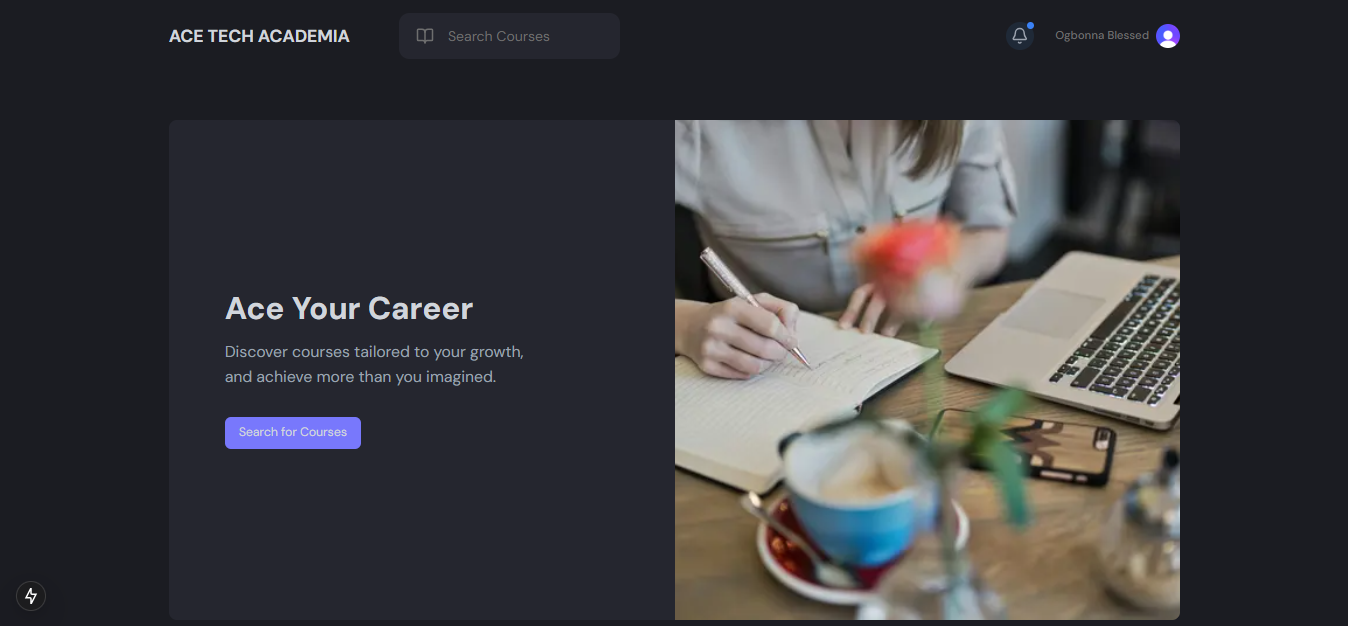
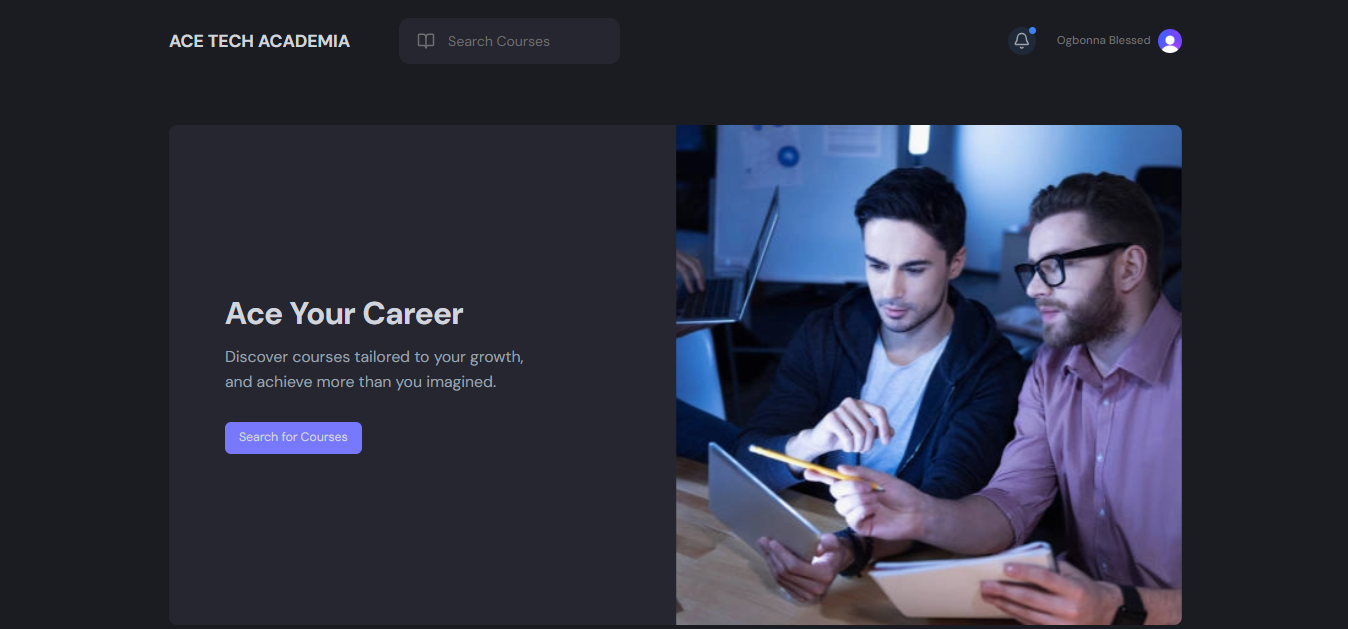
feat: add terra haven to the projects

diff --git a/src/components/Projects.tsx b/src/components/Projects.tsx
@@ -6,7 +6,7 @@ import { AnimatePresence, motion } from "framer-motion";
 import { useOutsideClick } from "@/hooks/use-outside-click";
 import { Minus } from "lucide-react";
 import { FaReact, FaDocker, FaAws, FaStripe, FaHtml5, FaCss3 } from 'react-icons/fa';
-import { SiRedux, SiTailwindcss, SiFramer, SiTypescript, SiZod, SiExpress, SiClerk, SiVercel, SiI3, SiNextdotjs, SiAmazondynamodb, SiShadcnui, SiReacthookform, SiGithubpages, SiJavascript, SiRender, SiFirebase, SiMongodb, SiNodedotjs } from 'react-icons/si';
+import { SiRedux, SiTailwindcss, SiFramer, SiTypescript, SiZod, SiExpress, SiClerk, SiVercel, SiI3, SiNextdotjs, SiAmazondynamodb, SiShadcnui, SiReacthookform, SiGithubpages, SiJavascript, SiRender, SiFirebase, SiMongodb, SiNodedotjs, SiPostgresql, SiPrisma, SiPostman, SiAwslambda } from 'react-icons/si';
 
 export function Projects() {
     const [active, setActive] = useState<(typeof cards)[number] | boolean | null>(null);
@@ -271,7 +271,7 @@ const techStackIcons: { [key: string]: JSX.Element } = {
     <FaDocker className="text-blue-500 text-2xl" />
   ),
   "AWS Lambda": (
-    <FaAws className="text-orange-500 text-2xl" />
+    <SiAwslambda className="text-orange-500 text-2xl" />
   ),
   "DynamoDB": (
     <SiAmazondynamodb className="text-indigo-600 text-2xl" />
@@ -308,6 +308,18 @@ const techStackIcons: { [key: string]: JSX.Element } = {
   ),
   "MongoDB": (
     <SiMongodb className="text-green-500 text-2xl" />
+  ),
+  "PostgreSQL": (
+    <SiPostgresql className="text-blue-500 text-2xl" />
+  ),
+  "Prisma" : (
+    <SiPrisma className="text-black text-2xl" />
+  ),
+  "Postman": (
+    <SiPostman className="text-orange-500 text-2xl" />
+  ),
+  "AWS": (
+    <FaAws className="text-orange-500 text-2xl" />
   )
 }
 
@@ -499,6 +511,34 @@ const cards = [
           </div>
           <div>
             Velora is designed to provide a seamless and secure travel booking experience, combining powerful backend functionality with an intuitive frontend.
+          </div>
+        </div>
+      );
+    },
+  },
+  {
+    title: "Terra Haven",
+    src: "/portfolio/terra-haven.png",
+    ctaText: "Visit",
+    ctaLink: "https://master.d1owvtqqkoar7m.amplifyapp.com/", // Replace with actual link
+    category: ["website", "full-stack"],
+    content: () => {
+      return (
+        <div className="pb-5 flex flex-col gap-5">
+          <div>
+            Terra Haven is an interactive geospatial web application designed to visualize, manage, and interact with location-based data in real-time. Built for modern mapping experiences, it combines powerful geolocation features with a clean and responsive UI.
+          </div>
+          <div>
+            On the frontend, Terra Haven utilizes <TechStack name="Next.js" /> and <TechStack name="TypeScript" /> for dynamic UI rendering, integrated with Mapbox and Mapbox React GL to deliver rich, high-performance map experiences. Form validation is seamlessly handled using <TechStack name="React Hook Form" /> and <TechStack name="Zod" />, while UI components are styled with <TechStack name="Shadcn" /> and enhanced with notifications via Shadcn Sonner.
+          </div>
+          <div>
+            State management and API communication are efficiently powered by <TechStack name="Redux Toolkit" /> and Redux Toolkit Query, ensuring a responsive and data-driven application.
+          </div>
+          <div>
+            On the backend, Terra Haven leverages <TechStack name="PostgreSQL" /> enhanced with PostGIS for advanced geospatial queries and spatial data storage. <TechStack name="Prisma" /> is used as the ORM for streamlined database interactions, with PgAdmin for database management and <TechStack name="Postman" /> for API testing.
+          </div>
+          <div>
+            Authentication and user management are powered by AWS Cognito, with cloud infrastructure handled through AWS CLI. The entire application is hosted on <TechStack name="AWS" />, ensuring scalability and reliability.
           </div>
         </div>
       );

diff --git a/src/components/MyTechStack.tsx b/src/components/MyTechStack.tsx
@@ -1,6 +1,7 @@
 import { animate } from "framer-motion";
 import { useEffect, useState } from "react";
 import { motion } from "framer-motion";
+import { FaAws } from "react-icons/fa";
 import {
   SiAmazondynamodb,
   SiBootstrap,
@@ -13,7 +14,7 @@ import {
   SiReact,
   SiTailwindcss,
   SiTypescript,
-  SiAwsamplify,
+//   SiAwsamplify,
 } from "react-icons/si";
 
 const techStack = [
@@ -28,7 +29,7 @@ const techStack = [
   { name: "DynamoDB", icon: SiAmazondynamodb, color: "text-blue-700" },
   { name: "Express.js", icon: SiExpress, color: "text-black" },
   { name: "PostgreSQL", icon: SiPostgresql, color: "text-blue-500" },
-  { name: "AWS", icon: SiAwsamplify, color: "text-orange-700" },
+  { name: "AWS", icon: FaAws, color: "text-orange-700" },
 ];
 
 const MyTechStack = () => {
